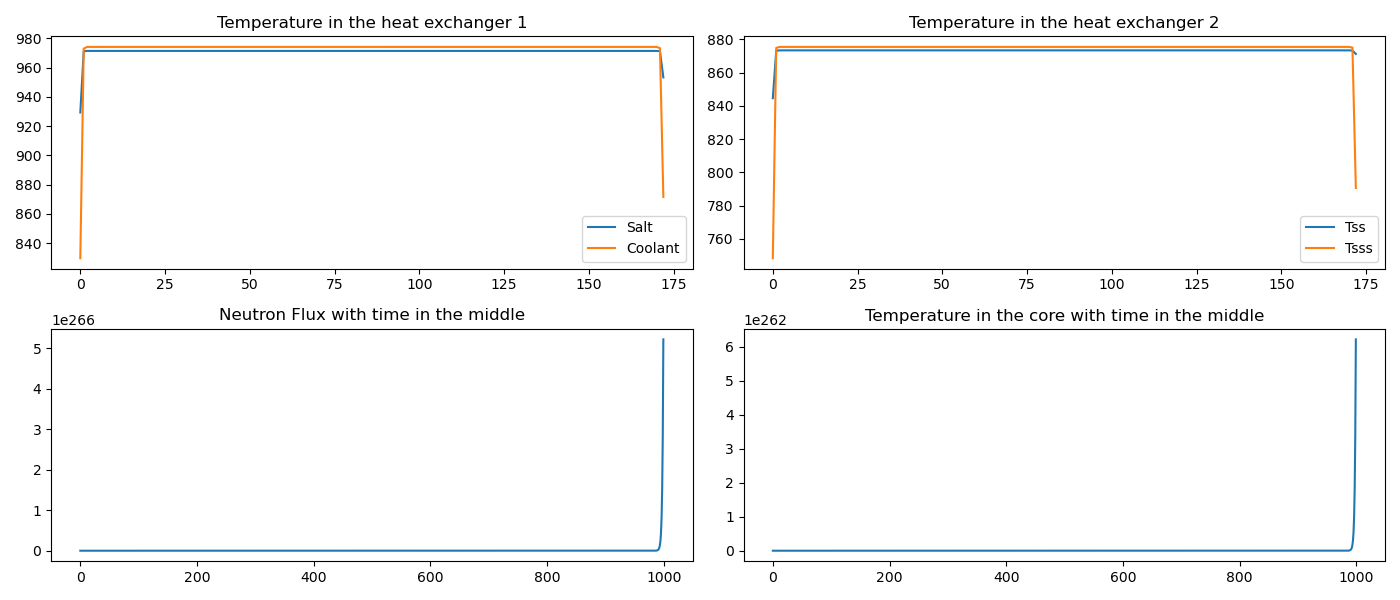
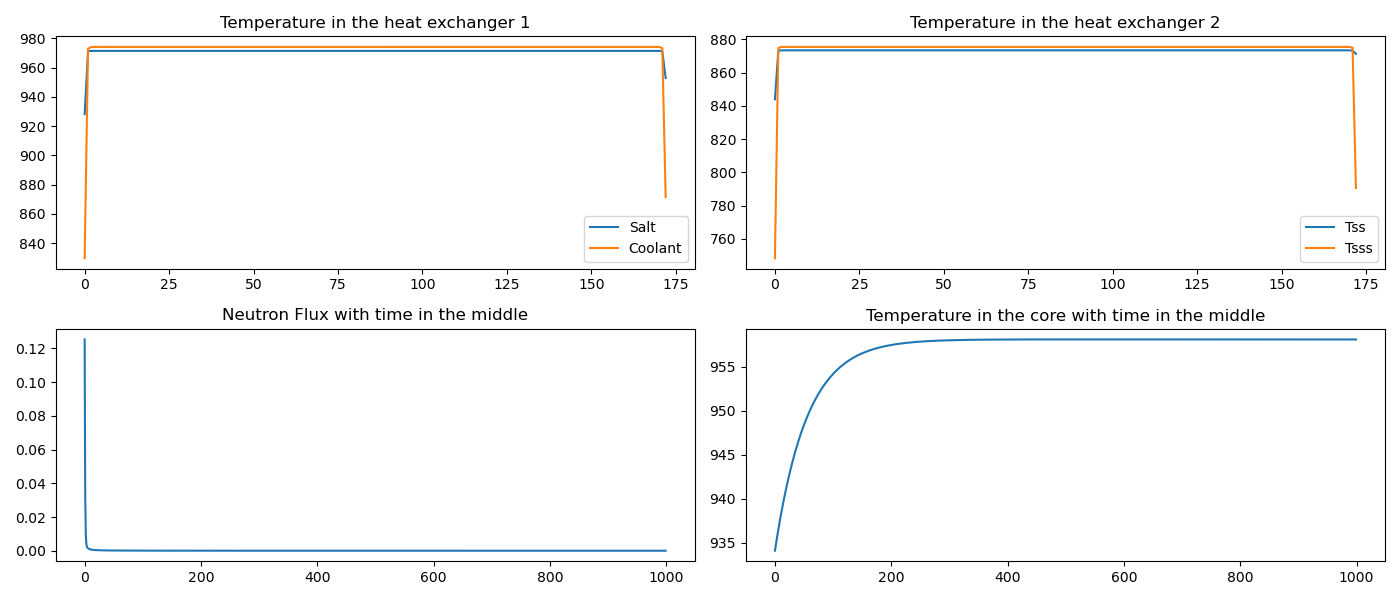
parameters

diff --git a/parameters.py b/parameters.py
@@ -2,7 +2,7 @@ import numpy as np
 
 def generate_parameters(
     # Neutronics
-    dt=0.05, # fixed time step
+    dt=0.5, # fixed time step
     L = 172,  # Length of the spatial domain, m
     # L = 22.9
     N = 172,  # Number of spatial points
@@ -14,7 +14,7 @@ def generate_parameters(
     # D = 1.02,  
     # sigma_a =0.0835   
     sigma_a=1.58430*1e-2/7.3, # cm^-1        
-    nu_sigma_f = 3.33029e-2/7.3, # cm^-1, 3.33029e-2
+    nu_sigma_f = 2.5e-2/7, # cm^-1, 3.33029e-2
     # sigma_a = 0.00054869,
     # nu_sigma_f = 0.00098328,
     # nu_sigma_f = 3.33029

diff --git a/reactivity.py b/reactivity.py
@@ -59,7 +59,7 @@ def reactivity(temperature_fuel, temperature_graphite, step, time_span, rho_inse
     rho=rho_0+rho_feedback+react
     
     rho=0 * np.ones(N)
-    rho=-0.369e-4 * np.ones(N)
+    rho=0.369e-4 * np.ones(N)
     # if step<=1:
     #     rho=0.0045/2*step*np.ones(N)
     # else:
